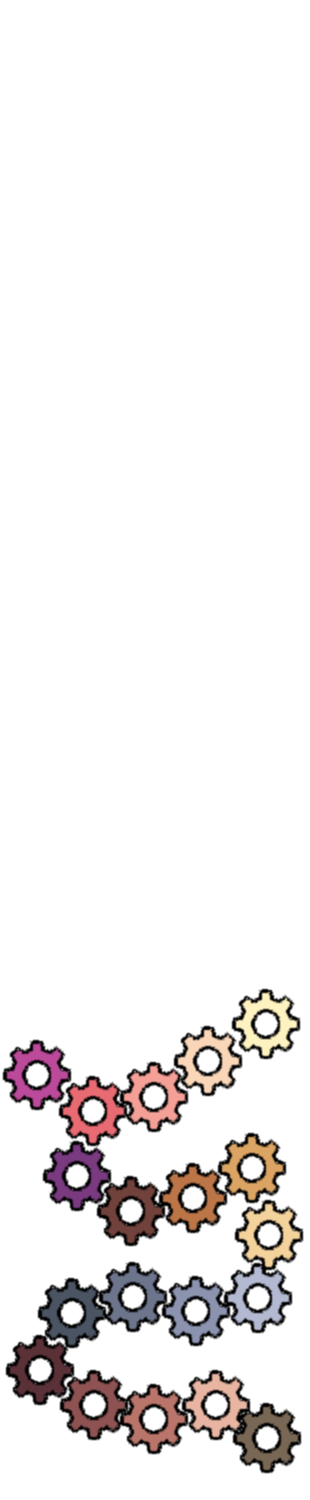
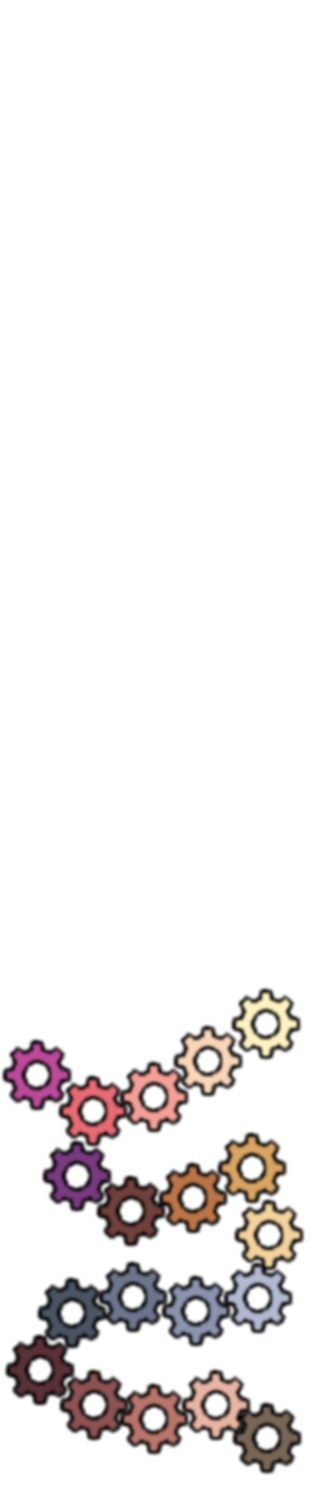
ok

Changed region(s): [[0.0, 0.644, 0.9871, 0.9813], [0.0, 0.8893, 0.0581, 0.9507]]

diff --git a/scripts/game.js b/scripts/game.js
@@ -164,7 +164,7 @@ window.addEventListener("load",function() {
     Q.state.set("levelEggs[" + i + "]",0);
   }
   Q.enableSound();
-  Q.setImageSmoothing(false);
+  Q.setImageSmoothing(true);
 
   //Escena de cualquier nivel nivel
   Q.scene("level",function(stage) {
